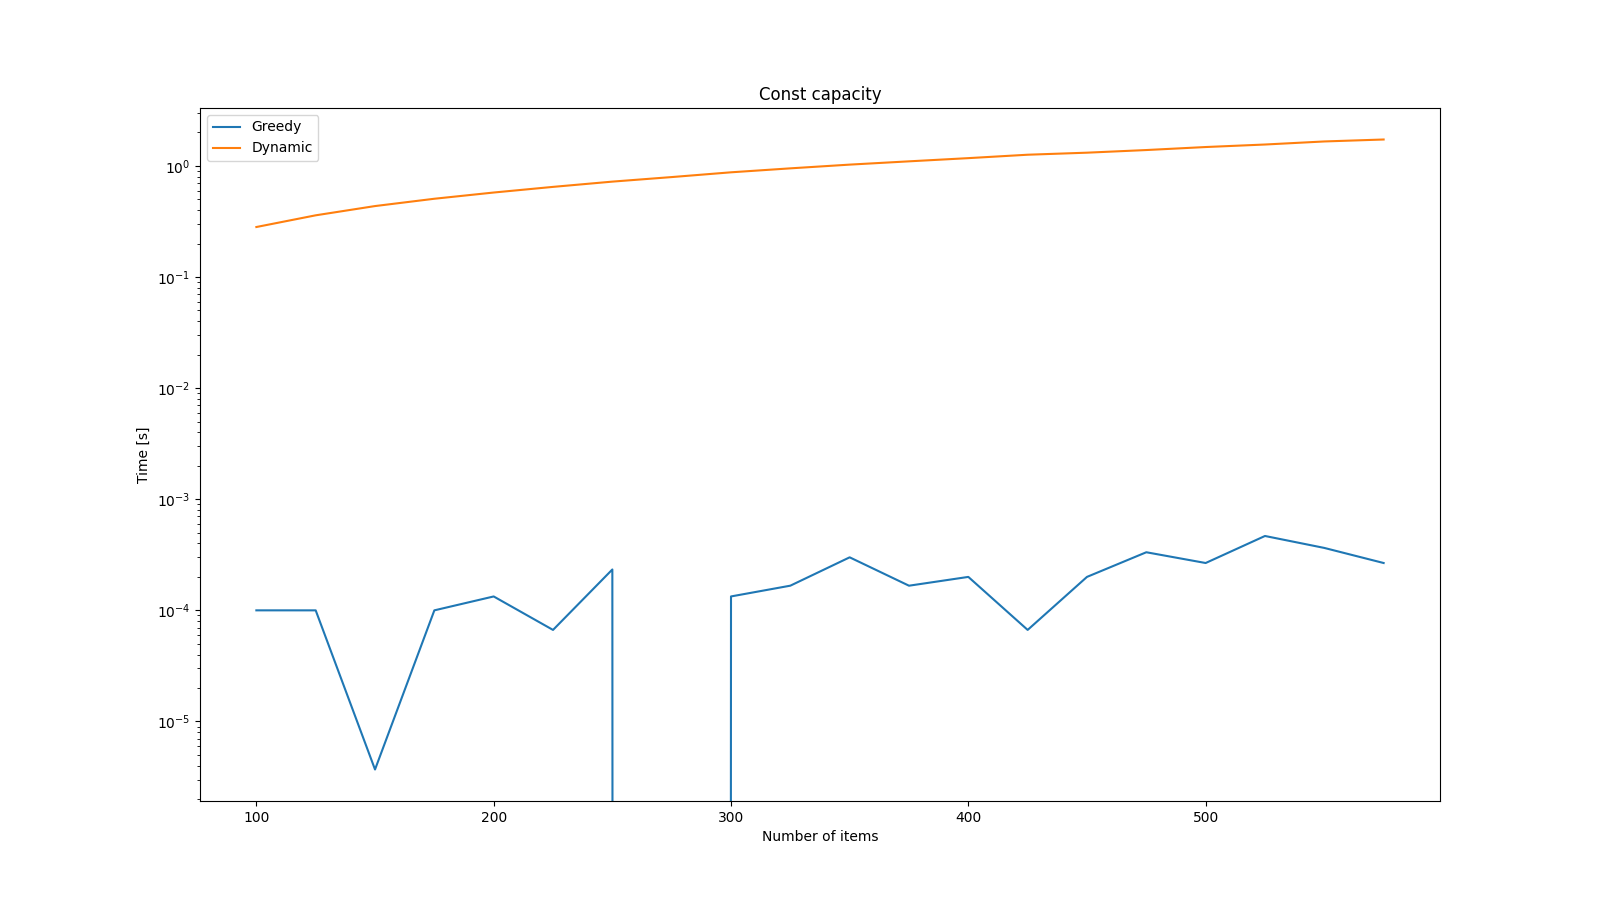
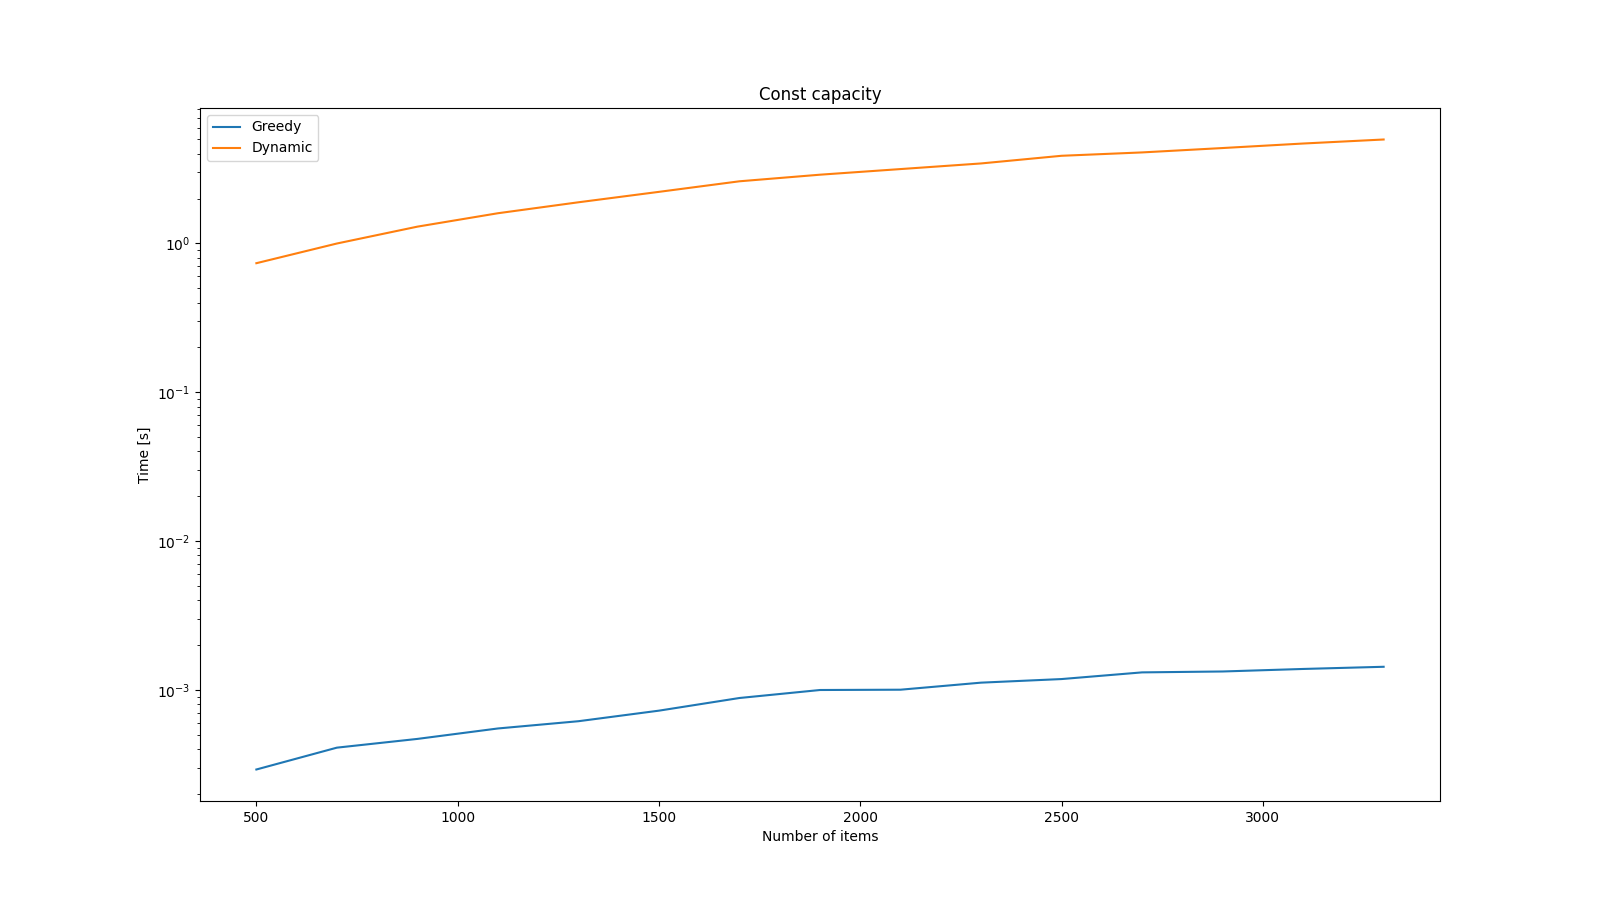
add multiprocessing and error graph

diff --git a/plecak/test_all.py b/plecak/test_all.py
@@ -3,72 +3,78 @@ from class_item import Item
 import pandas as pd
 from test_all_fun import measure_parameters
 import os
+import multiprocessing
 
-test = int(input("Which would be NOT constant\n1- number of items\n2- Capacity\n"))
-while test != 1 and test != 2:
-    test = int(
-        input("TYPO\nWhich would be NOT constant\n1- number of items\n2- Capacity\n"))
+def main():
+    test = int(input("Which would be NOT constant\n1- number of items\n2- Capacity\n"))
+    while test != 1 and test != 2:
+        test = int(
+            input("TYPO\nWhich would be NOT constant\n1- number of items\n2- Capacity\n"))
 
-if test == 1:
-    number_of_items = int(input("START number of items: "))
-    capacity = int(input("CONST capacity: "))
-else:
-    number_of_items = int(input("CONST Number of items: "))
-    capacity = int(input("START capacity: "))
-
-
-end_range_of_radnomization = int(
-    input("End range of wieghts and values randomization: "))
-steps = int(input("Steps: "))
-step_size = int(input("Step size: "))
-tries = int(input("Tries: "))
-
-if test == 1:
-    x_axis = []
-    for i in range(steps):
-        x_axis.append(number_of_items+ step_size*i)
-else:
-    end_elements = capacity + steps*step_size
-    x_axis = []
-    for i in range(steps):
-        x_axis.append(capacity+ step_size*i)
-
-if test == 2:
-    all_items = [Item(random.randint(1, end_range_of_radnomization), random.randint(
-        1, end_range_of_radnomization)) for _ in range(number_of_items)]
-
-greedy_time = []
-dynamic_time = []
-error = []
-# greedy_values = []
-# dynamic_values = []
-
-st = 1
-for point in x_axis:
-    print(f"Step {st}/{steps}")
-    st += 1
     if test == 1:
-        params = measure_parameters(
-            point, capacity, tries, end_range_of_radnomization)
+        number_of_items = int(input("START number of items: "))
+        capacity = int(input("CONST capacity: "))
     else:
-        params = measure_parameters(
-            number_of_items, point, tries, end_range_of_radnomization)
-    greedy_time.append(params[1])
-    dynamic_time.append(params[0])
-    error.append(params[2])
+        number_of_items = int(input("CONST Number of items: "))
+        capacity = int(input("START capacity: "))
 
-if test == 1:
-    df_greedy = pd.DataFrame(
-        {"points": x_axis, "time": greedy_time, "error": error})
-    df_greedy.to_csv(os.path.join("greedy", "greedy_with_variable_items.csv"))
-    df_dynamic = pd.DataFrame({"points": x_axis, "time": dynamic_time})
-    df_dynamic.to_csv(os.path.join(
-        "dynamic", "dynamic_with_variable_items.csv"))
-else:
-    df_greedy = pd.DataFrame(
-        {"points": x_axis, "time": greedy_time, "error": error})
-    df_greedy.to_csv(os.path.join(
-        "greedy", "greedy_with_variable_capacity.csv"))
-    df_dynamic = pd.DataFrame({"points": x_axis, "time": dynamic_time})
-    df_dynamic.to_csv(os.path.join(
-        "dynamic", "dynamic_with_variable_capacity.csv"))
+
+    end_range_of_radnomization = int(
+        input("End range of wieghts and values randomization: "))
+    steps = int(input("Steps: "))
+    step_size = int(input("Step size: "))
+    tries = int(input("Tries: "))
+
+    if test == 1:
+        x_axis = []
+        for i in range(steps):
+            x_axis.append(number_of_items+ step_size*i)
+    else:
+        end_elements = capacity + steps*step_size
+        x_axis = []
+        for i in range(steps):
+            x_axis.append(capacity+ step_size*i)
+
+    if test == 2:
+        all_items = [Item(random.randint(1, end_range_of_radnomization), random.randint(
+            1, end_range_of_radnomization)) for _ in range(number_of_items)]
+
+    greedy_time = []
+    dynamic_time = []
+    error = []
+    # greedy_values = []
+    # dynamic_values = []
+
+    st = 1
+    with multiprocessing.Pool(processes=8) as pool:
+        for point in x_axis:
+            print(f"Step {st}/{steps}")
+            st += 1
+            if test == 1:
+                params = measure_parameters(
+                    point, capacity, tries, end_range_of_radnomization, pool)
+            else:
+                params = measure_parameters(
+                    number_of_items, point, tries, end_range_of_radnomization, pool)
+            greedy_time.append(params[1])
+            dynamic_time.append(params[0])
+            error.append(params[2])
+
+    if test == 1:
+        df_greedy = pd.DataFrame(
+            {"points": x_axis, "time": greedy_time, "error": error})
+        df_greedy.to_csv(os.path.join("greedy", "greedy_with_variable_items.csv"))
+        df_dynamic = pd.DataFrame({"points": x_axis, "time": dynamic_time})
+        df_dynamic.to_csv(os.path.join(
+            "dynamic", "dynamic_with_variable_items.csv"))
+    else:
+        df_greedy = pd.DataFrame(
+            {"points": x_axis, "time": greedy_time, "error": error})
+        df_greedy.to_csv(os.path.join(
+            "greedy", "greedy_with_variable_capacity.csv"))
+        df_dynamic = pd.DataFrame({"points": x_axis, "time": dynamic_time})
+        df_dynamic.to_csv(os.path.join(
+            "dynamic", "dynamic_with_variable_capacity.csv"))
+
+if __name__ == "__main__":
+    main()

diff --git a/plecak/test_all_fun.py b/plecak/test_all_fun.py
@@ -3,32 +3,41 @@ from dynamic import dynamic_knapsack
 from class_item import Item
 import random
 from time import perf_counter
+import multiprocessing
 
+def do(x):
+    number_of_items, capacity, tries, end_range_of_radnomization = x
+    print(
+        f"{number_of_items} items     {capacity} capacity     xd/{tries} attempt")
+    all_items = [Item(random.randint(1, end_range_of_radnomization), random.randint(
+        1, end_range_of_radnomization)) for _ in range(number_of_items)]
 
-def measure_parameters(number_of_items, capacity, tries, end_range_of_radnomization):
+    start = perf_counter()
+    params_dynamic = dynamic_knapsack(number_of_items, capacity, all_items)
+    end = perf_counter()
+    dyn_time = end-start
+    
+
+    start = perf_counter()
+    params_greedy = greedy_knapsack(all_items, number_of_items, capacity)
+    end = perf_counter()
+    greedy_time = end-start
+    
+    return (params_dynamic[0], dyn_time, params_greedy[0], greedy_time)
+
+def measure_parameters(number_of_items, capacity, tries, end_range_of_radnomization, pool):
 
     dyn_time = 0
     greedy_time = 0
     dyn_val = 0
     greedy_val = 0
 
-    for i in range(tries):
-        print(
-            f"{number_of_items} items     {capacity} capacity     {i+1}/{tries} attempt")
-        all_items = [Item(random.randint(1, end_range_of_radnomization), random.randint(
-            1, end_range_of_radnomization)) for _ in range(number_of_items)]
-
-        start = perf_counter()
-        params_dynamic = dynamic_knapsack(number_of_items, capacity, all_items)
-        end = perf_counter()
-        dyn_time += end-start
-        dyn_val += params_dynamic[0]
-
-        start = perf_counter()
-        params_greedy = greedy_knapsack(all_items, number_of_items, capacity)
-        end = perf_counter()
-        greedy_time += end-start
-        greedy_val += params_greedy[0]
+    
+    vals = pool.map(do, [(number_of_items, capacity, tries, end_range_of_radnomization)] * tries)
+    dyn_time = sum(t[1] for t in vals)
+    greedy_time = sum(t[3] for t in vals)
+    dyn_val = sum(t[0] for t in vals)
+    greedy_val = sum(t[2] for t in vals)
 
     dyn_time = dyn_time/tries
     greedy_time = greedy_time/tries

diff --git a/plecak/draw_plots.py b/plecak/draw_plots.py
@@ -35,18 +35,39 @@ def draw_plot_variable_capacity(x_axis, y_axis_greedy, y_axis_dynamic):
     plt.clf()
 
 
-df_greedy = pd.read_csv(os.path.join("greedy",
+df_greedy_1 = pd.read_csv(os.path.join("greedy",
                                      "greedy_with_variable_items.csv"))
 df_dynamic = pd.read_csv(os.path.join("dynamic",
                                       "dynamic_with_variable_items.csv"))
 
 draw_plot_variable_items(
-    df_greedy["points"], df_greedy["time"], df_dynamic["time"])
+    df_greedy_1["points"], df_greedy_1["time"], df_dynamic["time"])
 
-df_greedy = pd.read_csv(os.path.join("greedy",
+df_greedy_2 = pd.read_csv(os.path.join("greedy",
                                      "greedy_with_variable_capacity.csv"))
 df_dynamic = pd.read_csv(os.path.join("dynamic",
                                       "dynamic_with_variable_capacity.csv"))
 
 draw_plot_variable_capacity(
-    df_greedy["points"], df_greedy["time"], df_dynamic["time"])
+    df_greedy_2["points"], df_greedy_1["time"], df_dynamic["time"])
+
+
+def draw_error(x_axis, y_axis_greedy, y_axis_dynamic):
+    plt.figure(figsize=(16, 9))
+    plt.xlabel("Measure point")
+    plt.ylabel("Error")
+    plt.plot(x_axis, y_axis_greedy, label="Const items")
+    plt.plot(x_axis, y_axis_dynamic, label="Const capacity")
+    plt.legend(loc="upper left")
+    plt.title("Greedy algorithm error")
+    os.makedirs(os.path.join("plots", "error"), exist_ok=True)
+    plt.savefig(os.path.join(
+        "plots", "error", "lin_error.png"))
+    plt.yscale("log")
+    plt.savefig(os.path.join(
+        "plots", "error", "log_error.png"))
+    plt.clf()
+
+df_error = [range(1,16), df_greedy_1["error"], df_greedy_2["error"]]
+
+draw_error(df_error[0], df_error[1], df_error[2])
